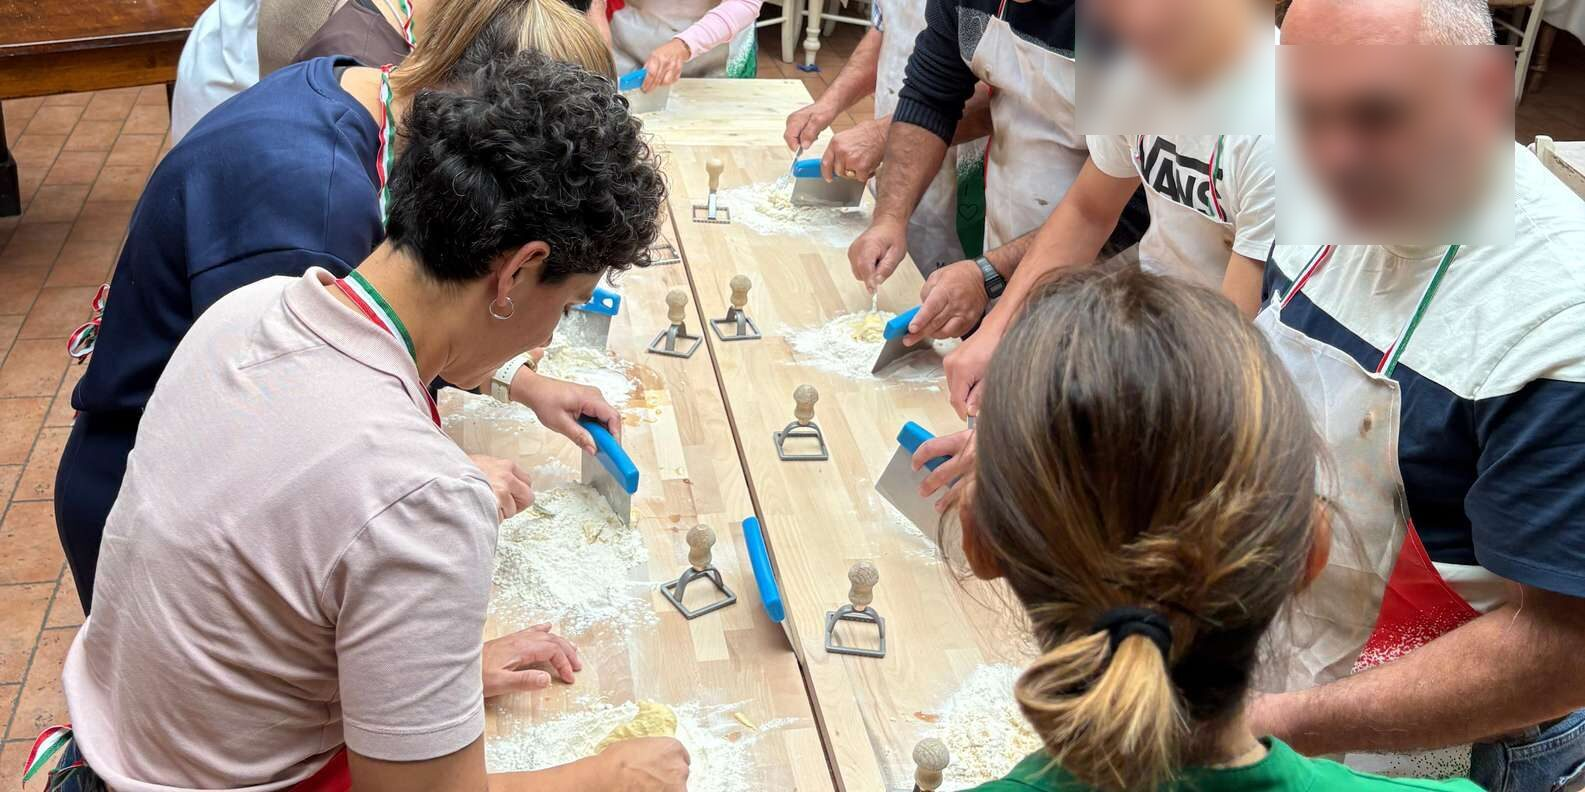
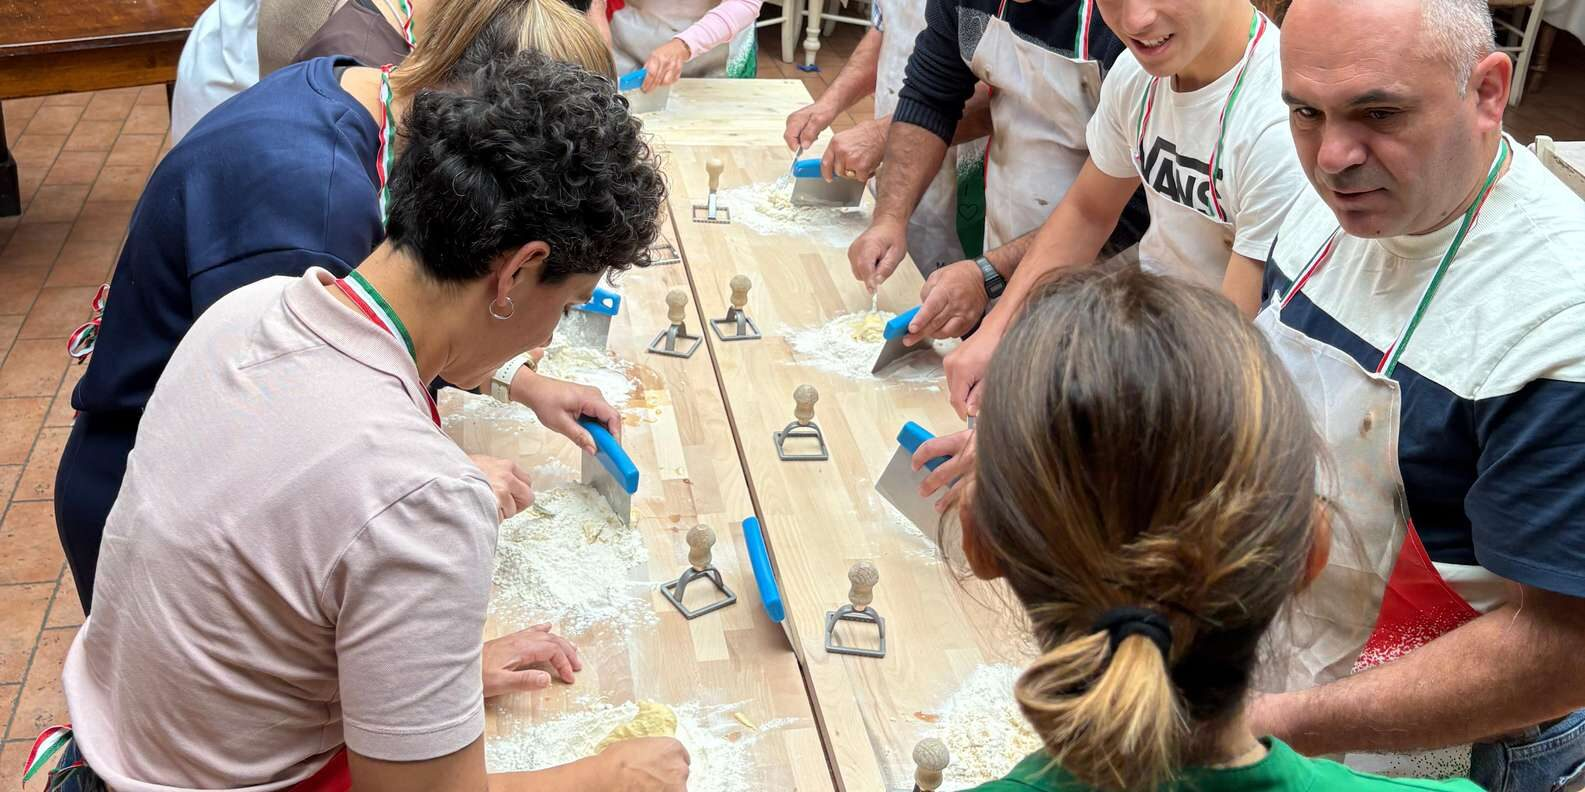
Publish original guest photos with consent (group and happy guests)
Claude-Session: https://claude.ai/code/session_013ioQyTnHeQ4jAhfEXPmYoU

Changed region(s): [[0.6801, 0.0, 0.9584, 0.3333]]

diff --git a/it/index.html b/it/index.html
@@ -299,6 +299,7 @@
             <img src="../assets/img/real-class.jpg" alt="Ospiti preparano la pasta fresca con la chef alla cooking class di Arezzo" loading="lazy">
             <img src="../assets/img/real-pasta-table.jpg" alt="Formati di pasta fatta a mano e ravioli sul tavolo infarinato della lezione" loading="lazy">
             <img src="../assets/img/real-tiramisu.jpg" alt="Impiattamento del tiramisù preparato durante la lezione" loading="lazy">
+            <img src="../assets/img/class-happy-guests.jpg" alt="Ospiti felici con matterelli e stampi per ravioli a fine lezione" loading="lazy">
             <img src="../assets/img/class-group-making-pasta.jpg" alt="Ospiti preparano i ravioli insieme al lungo tavolo di lavoro infarinato" loading="lazy">
             <img src="../assets/img/pasta-tools.jpg" alt="Matterelli in legno e stampi per ravioli pronti per la lezione" loading="lazy">
             <img src="../assets/img/aprons-flour-eggs.jpg" alt="Farina, uova fresche e grembiuli tricolore sul tavolo di lavoro" loading="lazy">

diff --git a/index.html b/index.html
@@ -379,6 +379,7 @@
             <img src="assets/img/real-class.jpg" alt="Guests making fresh pasta with the chef at the Arezzo cooking class" loading="lazy">
             <img src="assets/img/real-pasta-table.jpg" alt="Handmade pasta shapes and ravioli on the flour-dusted class table" loading="lazy">
             <img src="assets/img/real-tiramisu.jpg" alt="Plating the tiramisù made during the class" loading="lazy">
+            <img src="assets/img/class-happy-guests.jpg" alt="Happy guests posing with rolling pins and ravioli stamps after the class" loading="lazy">
             <img src="assets/img/class-group-making-pasta.jpg" alt="Guests shaping ravioli together at the long flour-dusted work table" loading="lazy">
             <img src="assets/img/pasta-tools.jpg" alt="Wooden rolling pins and ravioli stamps ready for the pasta class" loading="lazy">
             <img src="assets/img/aprons-flour-eggs.jpg" alt="Flour, fresh eggs and Italian-flag aprons laid out on the work table" loading="lazy">
